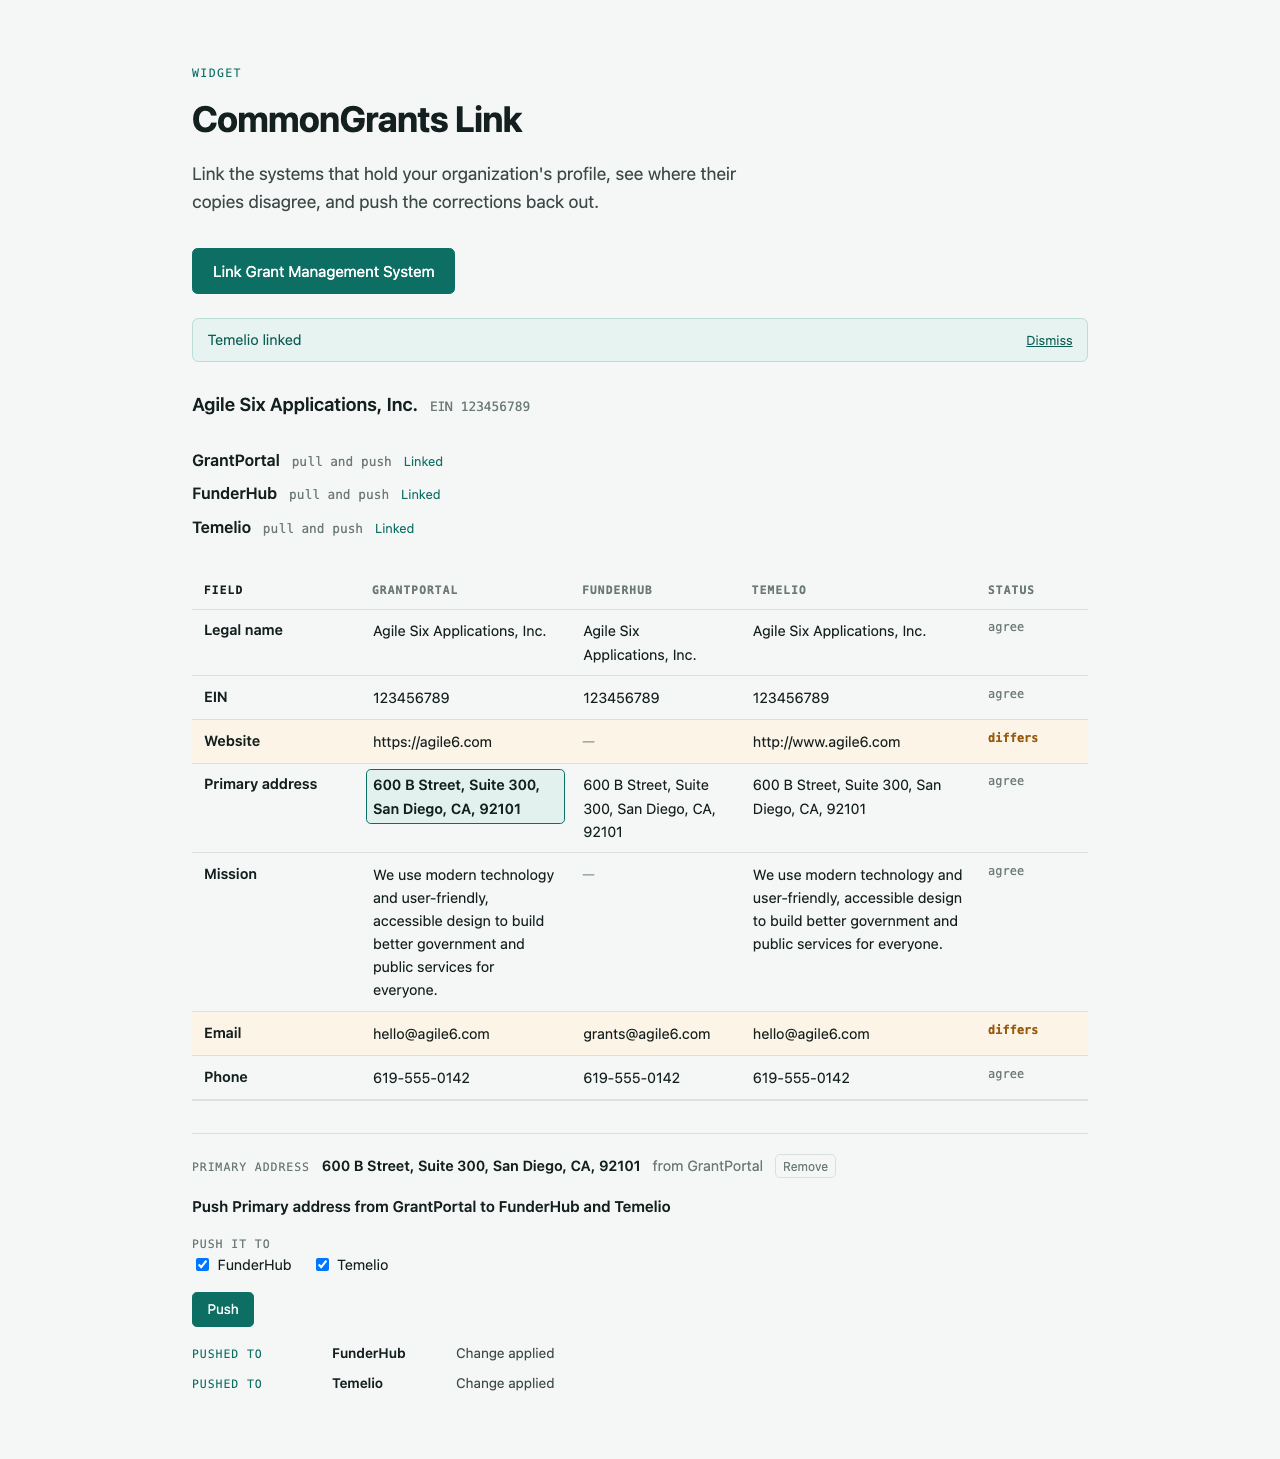
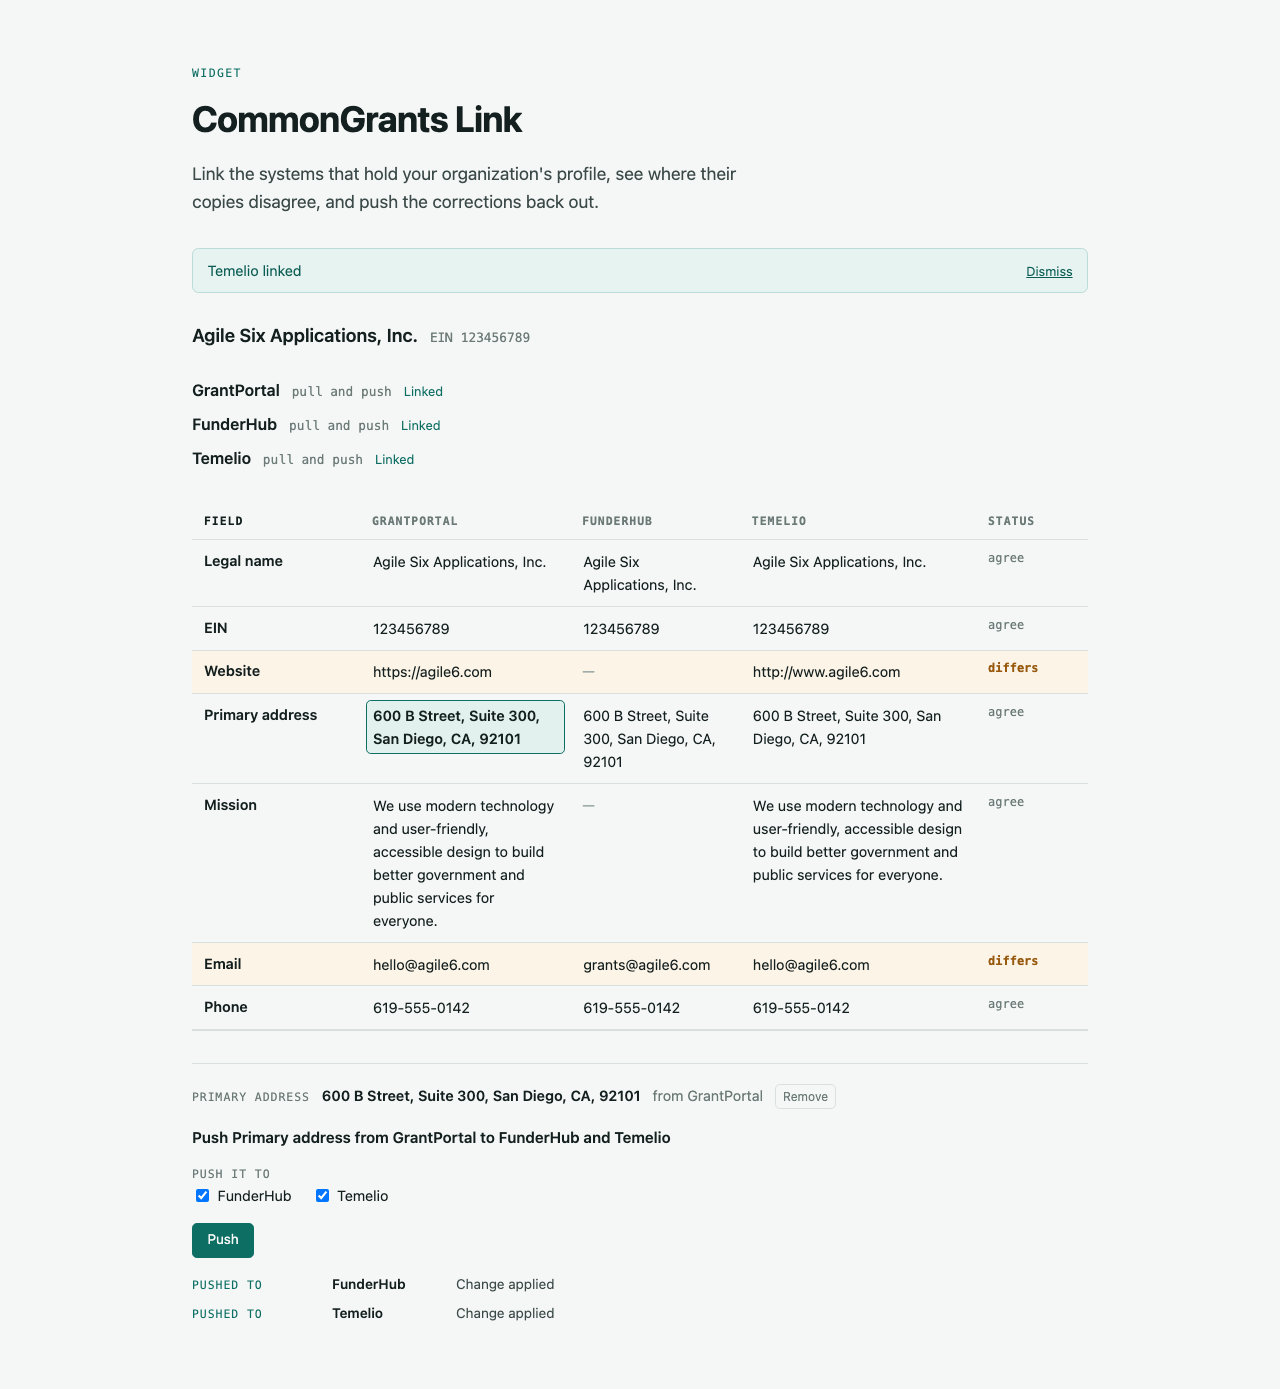
fix(link): give the embedded grid more of the frame, and stop the double scroll
The comparison had 193px of a 662px overlay at three systems linked, and the
column was scrolling as well as the grid — the thing the flex layout was meant
to remove. It holds at two systems, which is what the spec happened to cover.

Most of the difference was a button that could no longer do anything. Once
every system in the catalog is linked, **Link Grant Management System** opens a
picker with nothing choosable in it; the grid already drops its invitation
column for exactly that reason, and embedded, where the overlay cannot grow,
46px of dead control is a row of the comparison. It is hidden when there is
nothing left to link.

That buys back more than the 17px the column was overflowing by, so the floor
goes 12rem to 13rem and the grid ends up with 222px — 15% more table, and the
widget no longer scrolls behind it.

13rem rather than a rounder number because it was measured, not picked: at
three systems the column has a shade under 14rem to give, and 14rem overflowed
by 3px. The spec now connects all three rather than two, so the property is
pinned in the state the demo actually runs in instead of the one that was
comfortably true.

diff --git a/apps/link/src/lib/components/ComparisonGrid.svelte b/apps/link/src/lib/components/ComparisonGrid.svelte
@@ -201,12 +201,17 @@
     /* A floor rather than `0`: the grid should yield space to the panel, but a
        comparison squeezed to two rows is not one anybody can read.
 
-       Deliberately low. It is a minimum, not the height — with a short panel
-       the grid gets whatever the column has left over, which is more than this.
-       Raising it does not make the usual case taller; it only makes the column
-       outgrow the frame sooner, and the frame scrolling as well as the grid is
-       the thing this layout exists to avoid. */
-    min-height: 12rem;
+       It is a minimum, not the height: with a short panel the grid already gets
+       whatever the column has left over, which is more than this. What it
+       governs is the case where the panel has grown — several picks and a set
+       of results — and the grid is being squeezed to make room.
+
+       Sized against the frame rather than picked: at three systems linked the
+       column has a shade under 14rem to give, so a floor above this makes the
+       widget scroll as well as the grid in the state the demo actually runs
+       in. Measured, not guessed — `embedded.spec.ts` connects all three and
+       fails if it stops being true. */
+    min-height: 13rem;
     display: flex;
     flex-direction: column;
   }

diff --git a/e2e/specs/embedded.spec.ts b/e2e/specs/embedded.spec.ts
@@ -14,7 +14,13 @@
  */
 
 import type { APIRequestContext, FrameLocator, Page } from "@playwright/test";
-import { FUNDERHUB_ORG_ID, FUNDERHUB_SEED, PORTAL_ORG_ID, PORTAL_SEED } from "@cg-link/seed";
+import {
+  FUNDERHUB_ORG_ID,
+  FUNDERHUB_SEED,
+  PORTAL_ORG_ID,
+  PORTAL_SEED,
+  TEMELIO_ORG_ID,
+} from "@cg-link/seed";
 import { ADMIN_EMAIL, FUNDERHUB_ORIGIN, LINK_ORIGIN, PORTAL_ORIGIN } from "../env.js";
 import { connectInFrame, expect, openWidget, test } from "../fixtures.js";
 
@@ -220,8 +226,12 @@ test("embedded, the grid is the only thing that scrolls", async ({ page }) => {
 
   const widget = await openLinkOver(page);
 
-  await connectInFrame(page, widget, "portal", ADMIN_EMAIL, PORTAL_ORG_ID);
+  // All three, because that is the state the demo runs in and it is the worst
+  // case for height: every system linked is another chip above the grid. With
+  // two it fits easily; three is where the column and the grid were both
+  // scrolling before the chrome was trimmed.
   await connectInFrame(page, widget, "funderhub", ADMIN_EMAIL, FUNDERHUB_ORG_ID);
+  await connectInFrame(page, widget, "temelio", ADMIN_EMAIL, TEMELIO_ORG_ID);
   await expect(widget.getByTestId("grid")).toBeVisible();
 
   const layout = await widget.locator("body").evaluate(() => {

diff --git a/apps/link/src/routes/+page.svelte b/apps/link/src/routes/+page.svelte
@@ -937,9 +937,17 @@
     push the corrections back out.
   </p>
 
-  <button type="button" class="link-system" data-testid="link-system" onclick={openPicker}>
-    Link Grant Management System
-  </button>
+  <!--
+    Hidden once every system in the catalog is linked. The picker it opens
+    would have nothing choosable in it, which is the same reason the grid drops
+    its invitation column — and embedded, where the overlay cannot grow, a
+    button that can no longer do anything is a row of the comparison.
+  -->
+  {#if canAddSource}
+    <button type="button" class="link-system" data-testid="link-system" onclick={openPicker}>
+      Link Grant Management System
+    </button>
+  {/if}
 
   {#if banner}
     <p class="banner" role="status" data-testid="linked-banner">
